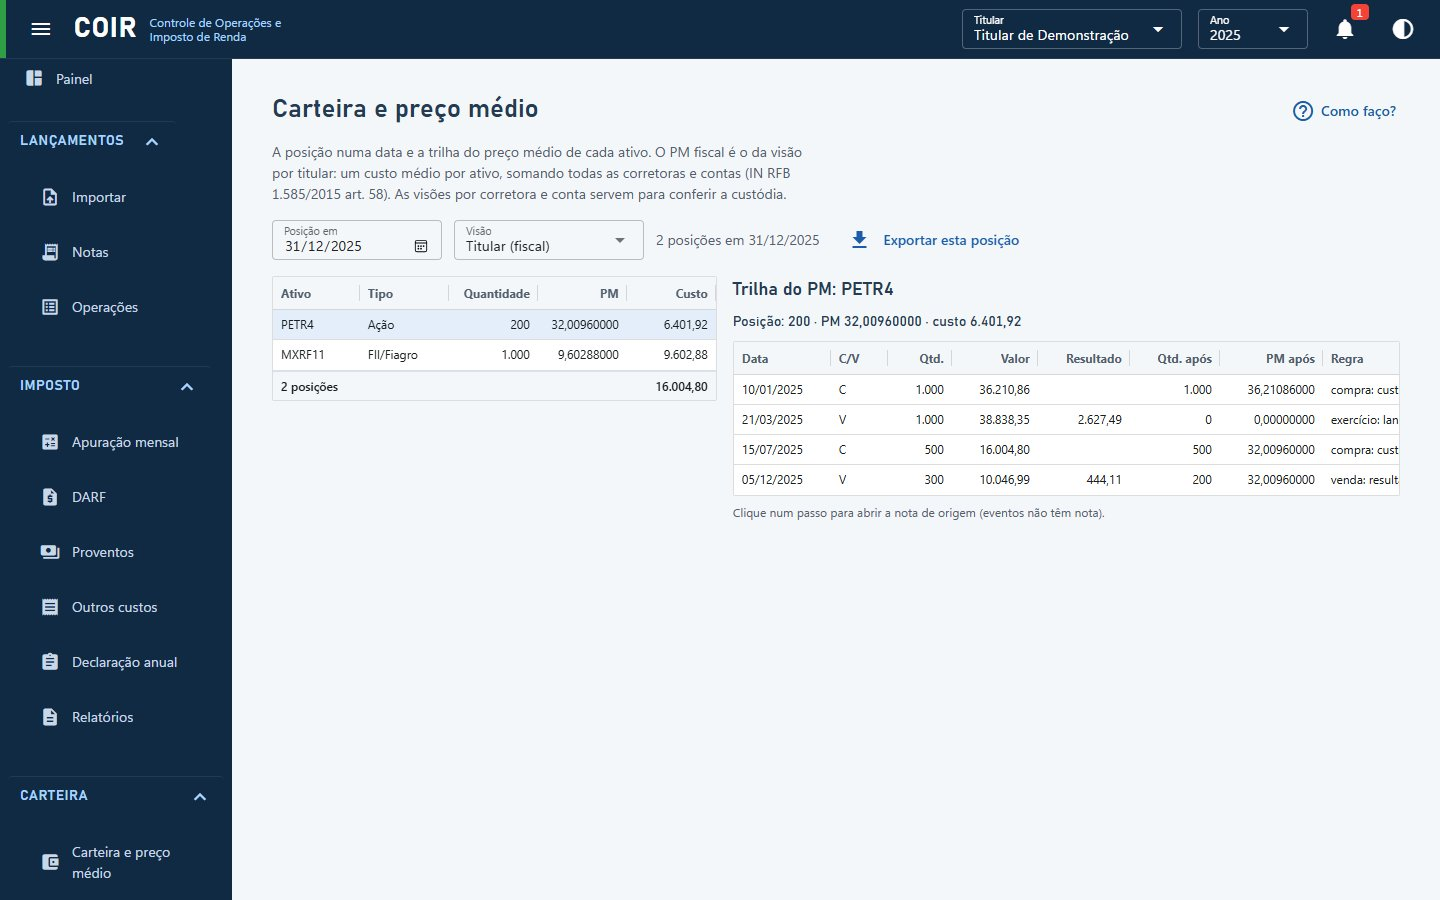
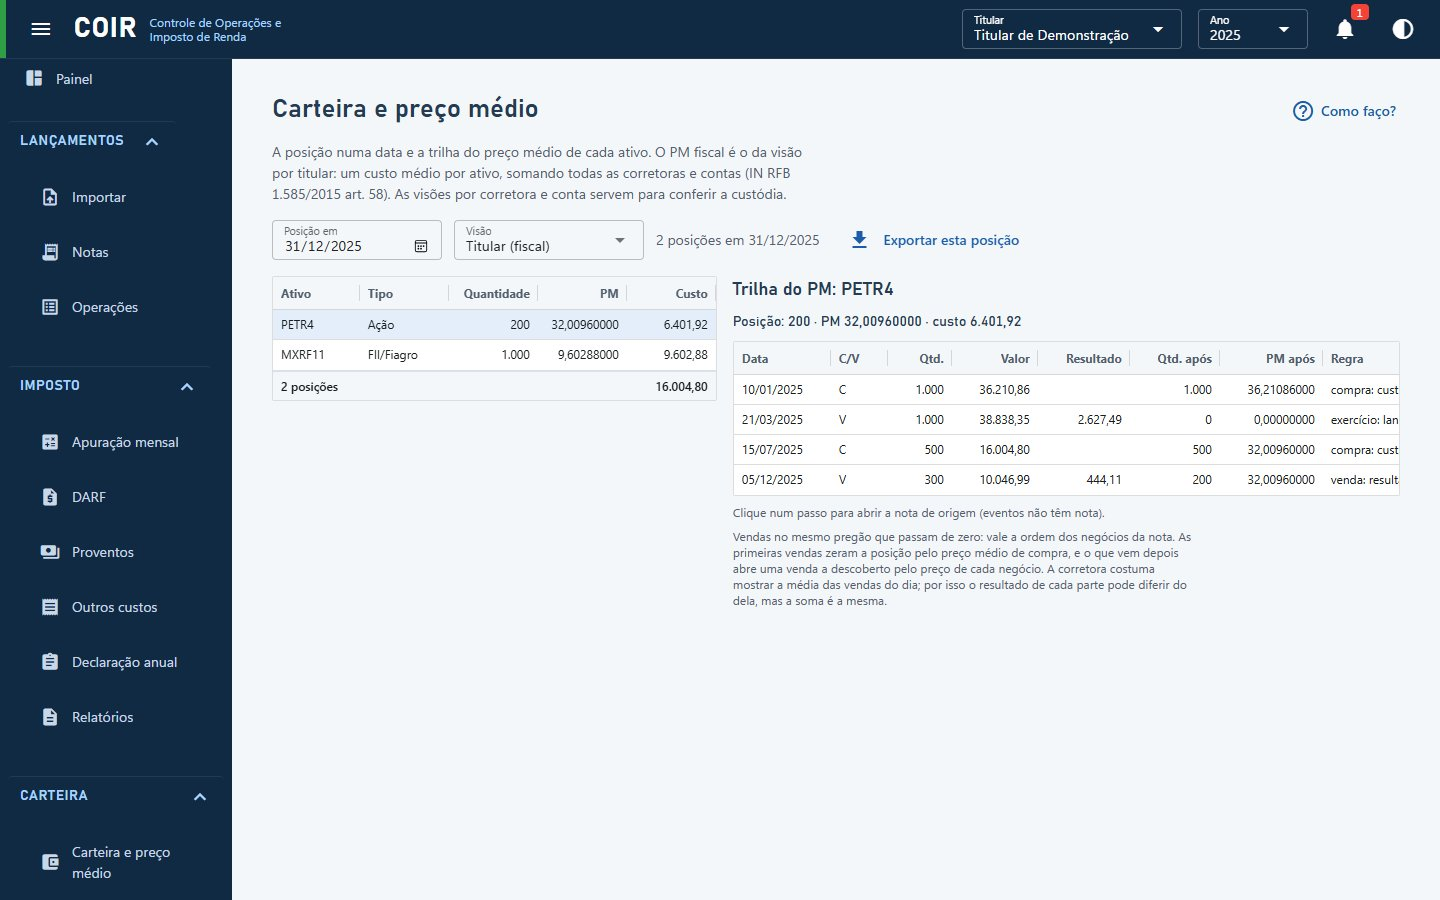
release: versão 3.1.2
Versão em pyproject.toml, coir/__init__.py e uv.lock; CHANGELOG fecha a seção 3.1.2; novidades.html regenerado; capturas do manual e do site refeitas com o banco fictício.

Changed region(s): [[0.5, 0.5911, 0.8125, 0.6844]]

diff --git a/novidades.html b/novidades.html
@@ -44,9 +44,42 @@ footer{max-width:980px;margin:0 auto;padding:0 20px 40px;font-size:14px;color:#6
 
 <p>O formato deste arquivo segue o <a href="https://keepachangelog.com/pt-BR/">Keep a Changelog</a>.</p>
 
-<h2 id="311-2026-11-12">[3.1.1] - 2026-11-12</h2>
+<h2 id="312-2026-11-17">[3.1.2] - 2026-11-17</h2>
 
 <h3 id="adicionado">Adicionado</h3>
+
+<ul>
+<li><strong>"Processando dados, aguarde"</strong>: enquanto o COIR importa notas ou planilhas da B3, confere os eventos, atualiza as tabelas ou restaura um backup, um aviso cobre a janela, mostra o que está sendo feito (na importação, quantos arquivos já foram) e some quando termina. Antes dava para trocar de tela no meio do processamento, e a operação terminava numa tela que já não existia.</li>
+<li><strong>Venda a termo</strong>: o COIR passa a apurar a venda a termo de ações. Antes, uma nota com venda a termo parava o cálculo do ativo. Agora o ganho entra no mês da liquidação, pelo preço a termo menos o preço médio da posição nesse dia, sem isenção. Até lá, as ações continuam na carteira, e a tela Carteira mostra a venda numa linha própria, com a data da entrega. Compra à vista e venda a termo do mesmo ativo no mesmo pregão geram um aviso de possível operação conjugada, que a Receita trata como renda fixa.</li>
+<li><strong>Cotas de FIP e de FIDC</strong>: o COIR passa a reconhecer, pela lista de fundos da B3, as cotas de FIP comum (que não é de infraestrutura) e de FIDC. A venda delas não entra mais na soma do limite de R$ 20 mil das ações, o que podia tirar a isenção de um mês sem motivo. O ganho na venda de FIP é apurado a 15%, sem isenção; a amortização reduz o custo pela parcela que o informe do administrador mostra, e a tela Eventos a propõe pela movimentação da B3. O FIDC continua fora do cálculo, agora com o motivo certo: não há norma expressa para a venda em bolsa por pessoa física. Esses tipos entram nas tabelas na próxima atualização delas; até lá, o fundo continua como "sem tipo".</li>
+<li><strong>Rendimentos de ETF na declaração</strong>: o rendimento distribuído por ETF de renda fixa, e por ETF de ações desde 2024, passa a aparecer na tela Proventos e na ficha de tributação exclusiva (código 06), pelo valor líquido. Antes ficava só como "fora da v3.0". O rendimento de ETF de ações de antes de 2024 continua só listado, com aviso.</li>
+<li><strong>Dividendo pago em bens</strong>: novo lançamento na tela Eventos (aba Lançados) para o dividendo pago com ações ou cotas de outra empresa. O ativo recebido entra na carteira, e o valor atribuído no aviso aos acionistas vai para os dividendos isentos. O custo fica pelo valor de mercado na data da entrega quando ele for menor que o valor atribuído, com aviso na Apuração.</li>
+<li><strong>Direito de subscrição recebido, na data do crédito</strong>: a tela Eventos propõe, pela movimentação da B3, o crédito do direito (custo zero), o exercício (pelo crédito do recibo) e a conversão do recibo em ação (pelo crédito das ações). Com o crédito lançado, os direitos recebidos e os comprados formam um custo médio só, como a norma pede. Sem ele, a venda do direito recebido continua com custo zero, e o COIR avisa quando havia direitos comprados. Direito e recibo que não estão nas tabelas têm o tipo reconhecido pelo final do código (1, 2, 9 e 10).</li>
+</ul>
+
+<h3 id="alterado">Alterado</h3>
+
+<ul>
+<li><strong>Nota na trilha do preço médio</strong>: a tela Carteira e preço médio explica que, em vendas do mesmo pregão que passam de zero, vale a ordem dos negócios da nota, e não o preço médio das vendas do dia que a corretora mostra. O cálculo não mudou; a soma dos resultados é a mesma.</li>
+<li><strong>Aviso do dividendo de BDR</strong>: o texto passa a explicar que é rendimento do exterior, que não é isento e que fica sujeito ao carnê-leão. O COIR continua sem calcular esse imposto.</li>
+<li><strong>IRRF de day trade e imposto de fundos imobiliários</strong>: o 1% retido em day trade deixa de abater o imposto de FII e Fiagro na DARF. A ficha de fundos imobiliários do programa da Receita não tem linha para esse IRRF, e a DARF ficava menor que o "a pagar" que o programa calcula. O 1% continua abatendo o imposto de operações comuns e de day trade; o que sobrar segue para os meses seguintes e, em dezembro, vira restituição. O imposto total do ano não muda, só a época. Um mês antigo com day trade de FII pode passar a mostrar DARF maior: confira a Apuração depois de atualizar. O parâmetro <code>irrf_day_trade_abate_fii</code> volta ao comportamento anterior.</li>
+<li><strong>IRRF de 0,005% em nota com opções e fundos imobiliários</strong>: a parte do IRRF que vai para a ficha de fundos imobiliários passa a considerar, nas opções, a soma dos prêmios recebidos e pagos no dia (IN RFB 1.585/2015 art. 63), e não o valor das vendas. Muda centavos entre as duas fichas; a DARF é a mesma.</li>
+<li><strong>Day trade entre corretoras antes de 28/07/2010</strong>: compra numa corretora e venda em outra no mesmo dia deixa de ser day trade também nesse período, como já era depois dele. Pela norma da época (IN SRF 25/2001 art. 31 §6º), a operação encerrada em outra instituição, com liquidação física, não era day trade. Só afeta meses já decaídos; pode mudar o prejuízo e o preço médio transportados de quem tem notas daquele tempo.</li>
+</ul>
+
+<h3 id="corrigido">Corrigido</h3>
+
+<ul>
+<li><strong>Direito de subscrição exercido</strong>: o custo pago pelo direito comprado em bolsa passa a entrar no custo das ações subscritas (antes ele se perdia, e a venda das ações pagava imposto a mais; o direito ficava para sempre na carteira). O direito usado sai sem resultado, o recibo de subscrição entra pelo valor pago mais o custo dos direitos e, quando as ações são creditadas, o recibo vira ação com o mesmo custo. O recibo vendido antes disso sai com o custo certo, e não mais com custo zero. As ações novas só entram no preço médio das antigas na data em que são creditadas.</li>
+<li><strong>Nome de pregão usado por dois códigos</strong>: quando o nome impresso na nota valia para mais de um código na data (dois BDR da mesma companhia, por exemplo), o COIR dizia só que o ativo não estava nas tabelas, e a nota não entrava. Agora ele acha o código pela planilha de negociação da B3 já importada (mesmo titular, dia, compra ou venda, quantidade e preço). Sem a planilha, a nota é recusada mostrando os códigos possíveis, e a tela Importar pergunta qual deles foi negociado, guarda a escolha para as notas da conta naquele pregão e importa a nota de novo. Uma nota já gravada não muda de código por uma escolha nova. O COIR continua sem escolher no palpite.</li>
+<li><strong>Venda de direito de subscrição com o preço no nome</strong>: a nota imprime o direito como "IRBBRASIL RE DO 6,93" ou "FII ... DM 86,50" (o número é o preço de subscrição), e o COIR dizia que o ativo não estava nas tabelas. Agora ele acha o direito daquela empresa ou fundo negociado na data (IRBR1, por exemplo). Se houver mais de um candidato e a letra da classe não decidir, a nota continua recusada, sem palpite.</li>
+<li><strong>Notas da Clear de 2018 a 2020 que eram recusadas</strong>: três formas do resumo financeiro passaram a ser lidas. A linha do I.R.R.F. com o seu D/C na coluna dos indicadores (a recusa dizia "6 rótulos para 6 valores soltos e 7 D/C"); a projeção do IRRF de day trade escrita com ponto decimal; e a taxa de transferência de ativos, que nessas notas fica fora do Total CBLC e é descontada no líquido (a recusa mostrava diferença de centavos no Total CBLC).</li>
+<li><strong>Valores em reais nos avisos no padrão brasileiro</strong>: alguns avisos mostravam "R$ 112626.22" em vez de "R$ 112.626,22". Valia para a obrigatoriedade da declaração e o IR mínimo (Declaração anual), o excedente da amortização de FI-Infra e FIP-IE, o rendimento de Fiagro antes da isenção, os dividendos perto do limite da Lei 15.270/2025, a diferença de centavos ao importar a nota e o dinheiro do resgate de ações. Os valores não mudam, só a forma de escrever.</li>
+</ul>
+
+<h2 id="311-2026-11-12">[3.1.1] - 2026-11-12</h2>
+
+<h3 id="adicionado-2">Adicionado</h3>
 
 <ul>
 <li><strong>Rótulos das notas escritos de outro jeito</strong>: o COIR passa a reconhecer os rótulos da nota em outras grafias, o que ajuda a ler notas de corretoras que ele ainda não conhece. Valem, por exemplo, "Data do pregão", "Data pregao", "D. pregão", "Dt pregão" e "Datapregão"; "Nº da nota" e "Número da nota"; "Fl."; "Cód. cliente"; e "Tx. liquidação". Também valem acentos e maiúsculas trocados, palavras coladas ou separadas e o rótulo quebrado em duas linhas. As formas aceitas ficam reunidas num só arquivo (<code>coir/parsing/rotulos.yaml</code>). Nenhuma delas casa com outro campo: "Data liquidação" não vira data do pregão, e "Taxas BM&amp;F (emol+f.gar)" não vira emolumentos. As notas que o COIR já lia saem iguais.</li>
@@ -82,7 +115,7 @@ conferência de privacidade, e abre o e-mail; você anexa e envia.</li>
 Os links estão no alto da tela <strong>Suporte</strong>, no rodapé do site e no manual.</li>
 </ul>
 
-<h3 id="alterado">Alterado</h3>
+<h3 id="alterado-2">Alterado</h3>
 
 <ul>
 <li><strong>Limite de isenção de R$ 20 mil</strong>: a venda de ações em day trade passa a entrar na soma das vendas do mês, como já entravam a venda por exercício de opção e a do termo (Lei 11.033/2004 art. 3º I; IN RFB 1.585/2015 art. 59 I). O ganho do day trade continua sem isenção. Num mês em que só o day trade leva a soma acima de R$ 20 mil, o lucro das vendas comuns passa a ser tributado, e a apuração avisa. A memória de cálculo mostra a soma e as duas parcelas (operações comuns e day trade). É critério do COIR (a lei soma "o valor das alienações"; nenhuma norma diz expressamente se o day trade entra), com o parâmetro <code>day_trade_na_soma_limite</code>, e vale para todos os meses: um mês antigo tratado como isento pode passar a ter imposto e aparecer como DARF em atraso; confira a Apuração depois de atualizar.</li>
@@ -94,7 +127,7 @@ Os links estão no alto da tela <strong>Suporte</strong>, no rodapé do site e n
 <li><strong>Manual:</strong> imagens de todas as telas refeitas com a versão atual, e as páginas de Eventos, Apuração, Carteira, Importar e Configurações descrevem o que entrou nesta versão (avisos e propostas da aba A conferir, soma do limite com o day trade, resultado por ativo, termo em aberto, corretora sem perfil, licença e o botão <strong>Como faço?</strong>).</li>
 </ul>
 
-<h3 id="corrigido">Corrigido</h3>
+<h3 id="corrigido-2">Corrigido</h3>
 
 <ul>
 <li><strong>Avisos de licença de terceiros completos no pacote</strong>: o <code>AVISOS-DE-TERCEIROS.txt</code> trazia só nome e licença das bibliotecas, incluía ferramentas de desenvolvimento que não vão no .zip e deixava de fora o que não é pacote Python. Agora traz o texto integral de cada licença, com os avisos de copyright, de tudo o que vai no .zip e só disso: bibliotecas Python, o próprio Python e as bibliotecas que ele incorpora (OpenSSL, SQLite, zlib...), o runtime da Microsoft, o carregador do PyInstaller, o WebView2, os JavaScript e as fontes da interface (Vue, Quasar, AG Grid, ECharts, Material Icons, Roboto...). A montagem do pacote falha se algum arquivo ficar sem licença declarada.</li>
@@ -156,7 +189,7 @@ arquivo rejeitado pode não ter titular conhecido.</li>
 
 <h2 id="310-2026-11-04">[3.1.0] - 2026-11-04</h2>
 
-<h3 id="adicionado-2">Adicionado</h3>
+<h3 id="adicionado-3">Adicionado</h3>
 
 <ul>
 <li><p><strong>Tela Suporte</strong>, para mandar uma nota que o COIR não lê ou lê errado (uma corretora nova,
@@ -195,7 +228,7 @@ ano do item (a DARF em atraso mais antiga, o ano mais recente com aviso). O cart
 Painel mostra a mesma lista.</li>
 </ul>
 
-<h3 id="corrigido-2">Corrigido</h3>
+<h3 id="corrigido-3">Corrigido</h3>
 
 <ul>
 <li><strong>Notas da Clear de 2026 recusadas</strong> com "página sem perfil de corretora conhecido": o
@@ -235,7 +268,7 @@ vez: um evento só é recusado se criar pendência nova.</li>
 
 <h2 id="301-2026-10-27">[3.0.1] - 2026-10-27</h2>
 
-<h3 id="corrigido-3">Corrigido</h3>
+<h3 id="corrigido-4">Corrigido</h3>
 
 <ul>
 <li><strong>A janela não abria</strong> depois de extrair o <code>.zip</code> baixado: o Windows marca cada arquivo
@@ -245,7 +278,7 @@ DLLs ao abrir. Na 3.0.0, o contorno é desbloquear o <code>.zip</code> (Propried
 de extrair.</li>
 </ul>
 
-<h3 id="adicionado-3">Adicionado</h3>
+<h3 id="adicionado-4">Adicionado</h3>
 
 <ul>
 <li>Página do manual <strong>Se o COIR não abrir</strong>: aviso do Windows, antivírus que põe o programa em
@@ -302,7 +335,7 @@ da v2 (todas são correções da v2):
   vencimento.
 - <strong>IRRF até R$ 1,00</strong> (dispensado, não retido) não vira crédito.</p>
 
-<h3 id="adicionado-4">Adicionado</h3>
+<h3 id="adicionado-5">Adicionado</h3>
 
 <ul>
 <li>Licença da v3: AGPL-3.0-or-later (a v2 em <code>legacy/</code> continua MIT).</li>
@@ -319,7 +352,7 @@ da v2 (todas são correções da v2):
 
 <p>Os resultados foram comparados com os da versão 2.1.1 em todas as notas de teste (XP, BTG e Rico), valor por valor, e no Excel em uma amostra de notas de todos os anos e corretoras.</p>
 
-<h3 id="corrigido-4">Corrigido</h3>
+<h3 id="corrigido-5">Corrigido</h3>
 
 <ul>
 <li>Preenchimento de células vazias com <code>fillna(..., inplace=True)</code> em uma coluna trocado por atribuição. No pandas 3 a forma antiga não altera nada e os valores vazios das taxas continuariam vazios. (@tommmdl)</li>
@@ -329,7 +362,7 @@ da v2 (todas são correções da v2):
 <li>Python 3.15 usa UTF-8 por padrão; a saída do <code>taskkill</code> (usado para fechar o Excel) é lida agora com tolerância a caracteres inválidos, em vez de interromper a gravação no Excel.</li>
 </ul>
 
-<h3 id="alterado-2">Alterado</h3>
+<h3 id="alterado-3">Alterado</h3>
 
 <ul>
 <li>Python mínimo: 3.12 (exigido pelo numpy 2.5). Pacote para Windows com Python 3.15.</li>
@@ -341,13 +374,13 @@ da v2 (todas são correções da v2):
 
 <p>Correção de instalação: uma instalação nova da 2.1.0 falhava por incompatibilidade de bibliotecas. Nenhuma alteração no código do programa.</p>
 
-<h3 id="corrigido-5">Corrigido</h3>
+<h3 id="corrigido-6">Corrigido</h3>
 
 <ul>
 <li><code>requirements.txt</code> fixa <code>numpy==1.23.5</code> e <code>setuptools==69.5.1</code>. Sem isso o pip instalava o numpy 2.x, incompatível com o pandas 1.3.3, e o setuptools 81 ou superior, que não traz o <code>pkg_resources</code> usado pelo tabula-py 2.3.0.</li>
 </ul>
 
-<h3 id="alterado-3">Alterado</h3>
+<h3 id="alterado-4">Alterado</h3>
 
 <ul>
 <li>O pacote para Windows passa a levar o <strong>Python 3.9.7 e o Java 17 (Temurin) embutidos</strong>. Não é preciso instalar Python, bibliotecas nem Java: basta extrair o <code>.zip</code> e dar dois cliques em <code>COIR.bat</code>.</li>
@@ -361,7 +394,7 @@ da v2 (todas são correções da v2):
 
 <p>Primeira versão do repositório reorganizado. O histórico anterior foi reiniciado (veja "Removido").</p>
 
-<h3 id="alterado-4">Alterado</h3>
+<h3 id="alterado-5">Alterado</h3>
 
 <ul>
 <li>Pastas reorganizadas: código em <code>coir/</code> (antes <code>Utils/</code>), planilha-modelo em <code>modelos/</code>, tabelas auxiliares em <code>dados/</code> (antes <code>Utils/Tickets/</code>) e capturas de tela em <code>docs/imagens/</code> (antes <code>Utils/Screenshots/</code>).</li>
@@ -371,7 +404,7 @@ da v2 (todas são correções da v2):
 <li><code>requirements.txt</code> convertido para UTF-8 (as versões das bibliotecas não foram alteradas).</li>
 </ul>
 
-<h3 id="adicionado-5">Adicionado</h3>
+<h3 id="adicionado-6">Adicionado</h3>
 
 <ul>
 <li>Leitura da conta do cliente por nota, quando um mesmo PDF reúne notas de contas diferentes.</li>

diff --git a/coir/__init__.py b/coir/__init__.py
@@ -1,3 +1,3 @@
 """COIR v3 — Controle de Operações e Imposto de Renda (B3)."""
 
-__version__ = "3.1.1"
+__version__ = "3.1.2"

diff --git a/CHANGELOG.md b/CHANGELOG.md
@@ -8,7 +8,7 @@ Este projeto segue o [Versionamento Semântico](https://semver.org/lang/pt-BR/) 
 
 O formato deste arquivo segue o [Keep a Changelog](https://keepachangelog.com/pt-BR/).
 
-## [Não lançado]
+## [3.1.2] - 2026-11-17
 
 ### Adicionado
 - **"Processando dados, aguarde"**: enquanto o COIR importa notas ou planilhas da B3, confere os eventos, atualiza as tabelas ou restaura um backup, um aviso cobre a janela, mostra o que está sendo feito (na importação, quantos arquivos já foram) e some quando termina. Antes dava para trocar de tela no meio do processamento, e a operação terminava numa tela que já não existia.
@@ -344,6 +344,7 @@ Até 2.0.4 o repositório usava tags fora do padrão e sem Releases. Elas foram 
 
 Entre abril de 2025 e junho de 2026 houve atualizações sem tag (`xp_rico_clear.py`, `acoes.csv`, `opcoes.csv` e a planilha-modelo); elas estão incorporadas à 2.1.0.
 
+[3.1.2]: https://github.com/MarceloPCF/COIR/releases/tag/v3.1.2
 [3.1.1]: https://github.com/MarceloPCF/COIR/releases/tag/v3.1.1
 [3.1.0]: https://github.com/MarceloPCF/COIR/releases/tag/v3.1.0
 [3.0.1]: https://github.com/MarceloPCF/COIR/releases/tag/v3.0.1
